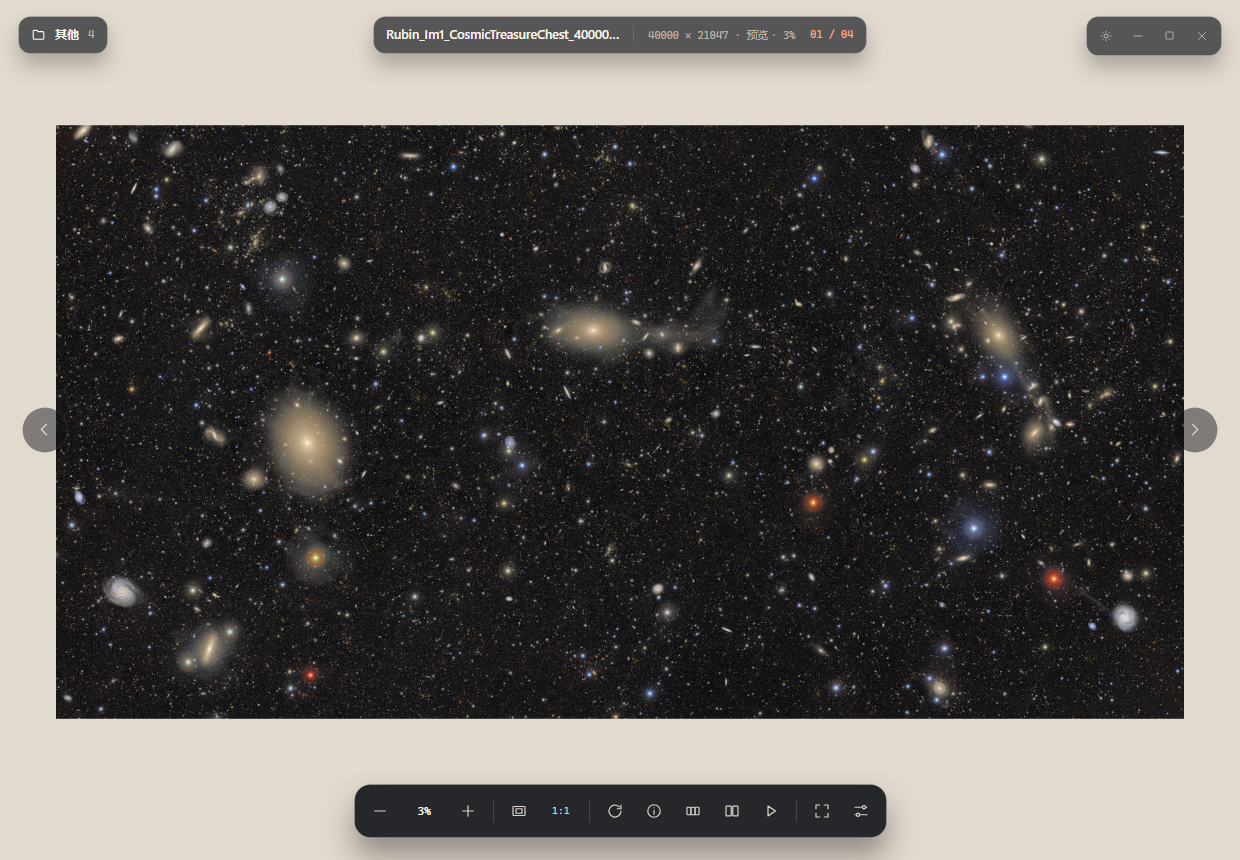
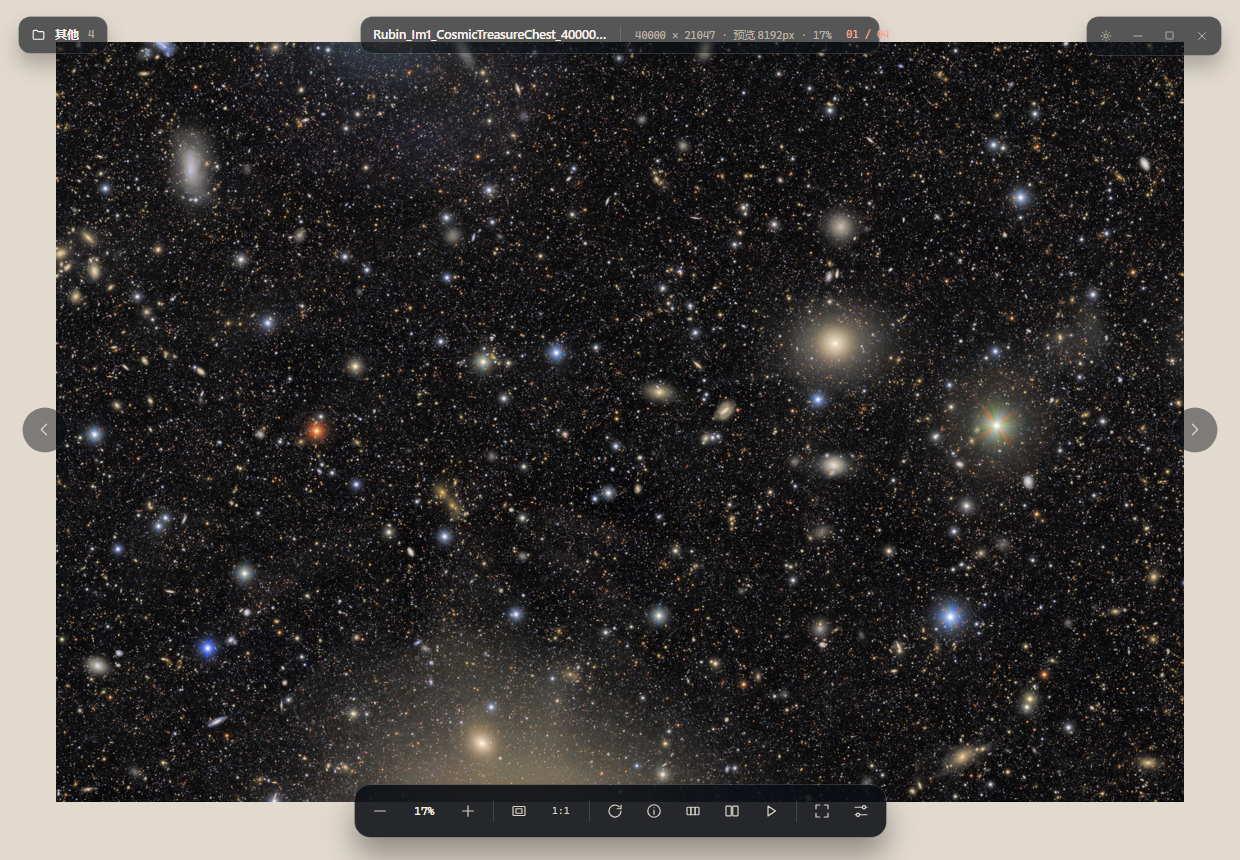
spike: add progressive large TIFF proxy upgrades
Coalesce zoom bursts, generate higher-resolution proxies on demand up to 8192 px, preserve the current view, and show the active proxy width in the header.

diff --git a/src/AirGlance.App/ViewModels/MainWindowViewModel.cs b/src/AirGlance.App/ViewModels/MainWindowViewModel.cs
@@ -67,6 +67,7 @@ public sealed class TiledImagePresentedEventArgs(TiledImageSource tiles) : Event
 public sealed partial class MainWindowViewModel : ObservableObject, IDisposable
 {
     private const long TiledPixelThreshold = 40_000_000;
+    private const int ProxyMaximumEdge = 8192;
 
     private readonly AppServices _services;
     private readonly ImageLoadService _loader = new();
@@ -81,6 +82,8 @@ public sealed partial class MainWindowViewModel : ObservableObject, IDisposable
     private CancellationTokenSource? _loadCts;
     private CancellationTokenSource? _prefetchCts;
     private CancellationTokenSource? _fullCts;
+    private CancellationTokenSource? _proxyCts;
+    private bool _isUpgradingProxy;
     private ThumbnailService? _thumbnails;
     private bool _thumbnailsPending;
     private bool _slideshowBusy;
@@ -431,6 +434,18 @@ public sealed partial class MainWindowViewModel : ObservableObject, IDisposable
         ZoomPercent = percent;
         ZoomText = Math.Round(percent, MidpointRounding.AwayFromZero).ToString("0", CultureInfo.InvariantCulture) + "%";
 
+        if (_rawDecoded is { IsProxy: true } proxy)
+        {
+            if (!_isUpgradingProxy &&
+                proxy.Width < ProxyMaximumEdge &&
+                percent / 100.0 > proxy.Scale * 1.15)
+            {
+                _ = UpgradeProxyAsync();
+            }
+
+            return;
+        }
+
         if (_rawDecoded is { IsProxy: false } raw &&
             !_fullLoaded &&
             !_isLoadingFull &&
@@ -439,6 +454,83 @@ public sealed partial class MainWindowViewModel : ObservableObject, IDisposable
         {
             _ = LoadFullResolutionAsync();
         }
+    }
+
+    private async Task UpgradeProxyAsync()
+    {
+        if (_isUpgradingProxy)
+        {
+            return;
+        }
+
+        _isUpgradingProxy = true;
+        try
+        {
+            // Coalesce a wheel/gesture burst and decode the final tier once.
+            await Task.Delay(500, _lifetimeCts.Token);
+            while (true)
+            {
+                var path = _currentPath;
+                var metadata = _metadata;
+                var current = _rawDecoded;
+                if (path is null || metadata is null || current is not { IsProxy: true })
+                {
+                    break;
+                }
+
+                var target = NextProxyEdge(metadata);
+                if (target <= current.Width * 1.05 || target > ProxyMaximumEdge)
+                {
+                    break;
+                }
+
+                var version = _loadVersion;
+                _proxyCts?.Cancel();
+                _proxyCts?.Dispose();
+                _proxyCts = CancellationTokenSource.CreateLinkedTokenSource(_lifetimeCts.Token);
+                var token = _proxyCts.Token;
+                var decoded = await _loader.DecodePreviewAsync(path, target, target, token);
+                token.ThrowIfCancellationRequested();
+                if (version != _loadVersion ||
+                    !string.Equals(path, _currentPath, StringComparison.OrdinalIgnoreCase))
+                {
+                    break;
+                }
+
+                _loader.Store(path, target, target, decoded);
+                _rawDecoded = decoded;
+                var edit = _edit;
+                var display = edit.IsIdentity ? decoded : ImageTransform.Apply(decoded, edit);
+                Present(display, metadata, resetView: false, animate: false, isNavigation: false);
+                UpdateStatus(metadata);
+            }
+        }
+        catch (OperationCanceledException)
+        {
+            // Navigation or shutdown superseded the upgrade.
+        }
+        catch
+        {
+            // Keep the current proxy if a larger one cannot be generated.
+        }
+        finally
+        {
+            _isUpgradingProxy = false;
+            _proxyCts?.Dispose();
+            _proxyCts = null;
+        }
+    }
+
+    private int NextProxyEdge(ImageMetadata metadata)
+    {
+        var needed = (int)Math.Ceiling(
+            metadata.DisplayWidth * (Math.Max(1, ZoomPercent) / 100.0) * 1.15);
+        if (needed <= 2048)
+        {
+            return 2048;
+        }
+
+        return needed <= 4096 ? 4096 : ProxyMaximumEdge;
     }
 
     public async Task RotateClockwiseAsync()
@@ -1351,7 +1443,13 @@ public sealed partial class MainWindowViewModel : ObservableObject, IDisposable
             metadata.DisplayWidth,
             metadata.DisplayHeight);
         StatusDimensions = _rawDecoded?.IsProxy == true
-            ? string.Concat(dimensions, " · ", _services.Localization.T("L.Preview"))
+            ? string.Concat(
+                dimensions,
+                " · ",
+                _services.Localization.T("L.Preview"),
+                " ",
+                _rawDecoded.Width.ToString(CultureInfo.InvariantCulture),
+                "px")
             : dimensions;
         StatusPosition = _navigator.Count == 0
             ? string.Empty
@@ -1496,6 +1594,12 @@ public sealed partial class MainWindowViewModel : ObservableObject, IDisposable
         }
 
         var (width, height) = PreviewTarget();
+        if (_rawDecoded.IsProxy)
+        {
+            width = Math.Max(width, _rawDecoded.Width);
+            height = Math.Max(height, _rawDecoded.Height);
+        }
+
         if (_rawDecoded.Width >= width * 0.9 && _rawDecoded.Height >= height * 0.9)
         {
             return;
@@ -1604,6 +1708,9 @@ public sealed partial class MainWindowViewModel : ObservableObject, IDisposable
         _fullCts?.Cancel();
         _fullCts?.Dispose();
         _fullCts = null;
+        _proxyCts?.Cancel();
+        _proxyCts?.Dispose();
+        _proxyCts = null;
         _isLoadingFull = false;
     }
 

diff --git a/docs/design/large-tiff-plan-a.md b/docs/design/large-tiff-plan-a.md
@@ -15,6 +15,12 @@
 - 阈值：`250,000,000` 像素；打开失败的大 TIFF 也进入预览路径。
 - 预览最大边：`8192 px`，实际目标不超过调用方请求的视口尺寸。
 - 预览结果标记为 `DecodedBitmap.IsProxy`。
+- 渐进式代理：
+  - 初始按视口生成；
+  - 放大超过当前代理分辨率时，后台按 2K → 4K → 8K 生成更大的代理；
+  - 完成后保持当前缩放/位置替换图像；
+  - 最大 8192 px；
+  - 状态栏显示当前代理宽度，例如 `预览 8192px`。
 - 大 TIFF 不执行全分辨率解码：
   - `DecodeFull` / `DecodeFullRaw` 返回明确错误；
   - 单画布缩放超过代理分辨率时不再触发全图解码；
@@ -30,11 +36,12 @@
 ```
 
 - 可以打开；
-- 状态栏显示 `40000 × 21047 · 预览 · 3%`；
+- 初始状态栏显示 `40000 × 21047 · 预览 1600px · 3%`；
+- 放大到 17% 后自动升级到 `预览 8192px`，细节明显增加；
 - 预览正常显示；
 - AOT 包启动正常。
 
-![Cosmic 大 TIFF 预览](implemented-large-tiff-preview.png)
+![Cosmic 大 TIFF 渐进预览](implemented-large-tiff-preview.png)
 
 ### Trifid & Lagoon
 
@@ -53,8 +60,8 @@
 ## 包
 
 - `artifacts/local-0.4.0-plan-a/AirGlance-0.4.0-plan-a-win-x64.zip`
-- 约 **27.55 MB**（28,891,531 bytes；增加约 7.7 MB 压缩包体）
[1 lines of base64/hex data omitted]
+- 约 **27.56 MB**（28,893,516 bytes；增加约 7.7 MB 压缩包体）
[1 lines of base64/hex data omitted]
 - 包含 `libvips-42.dll`
 
 ## 已知限制
